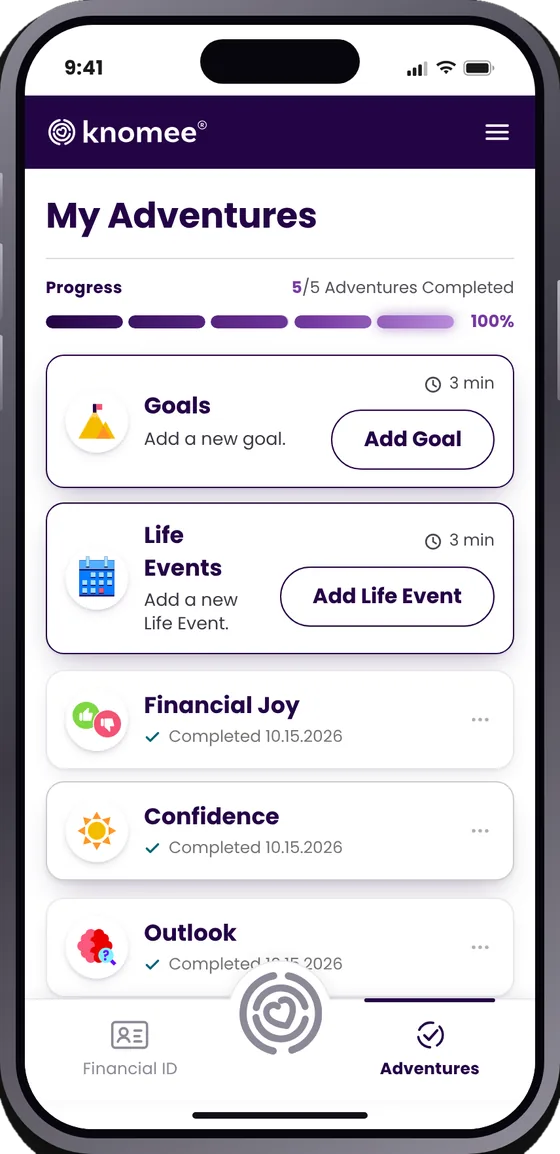
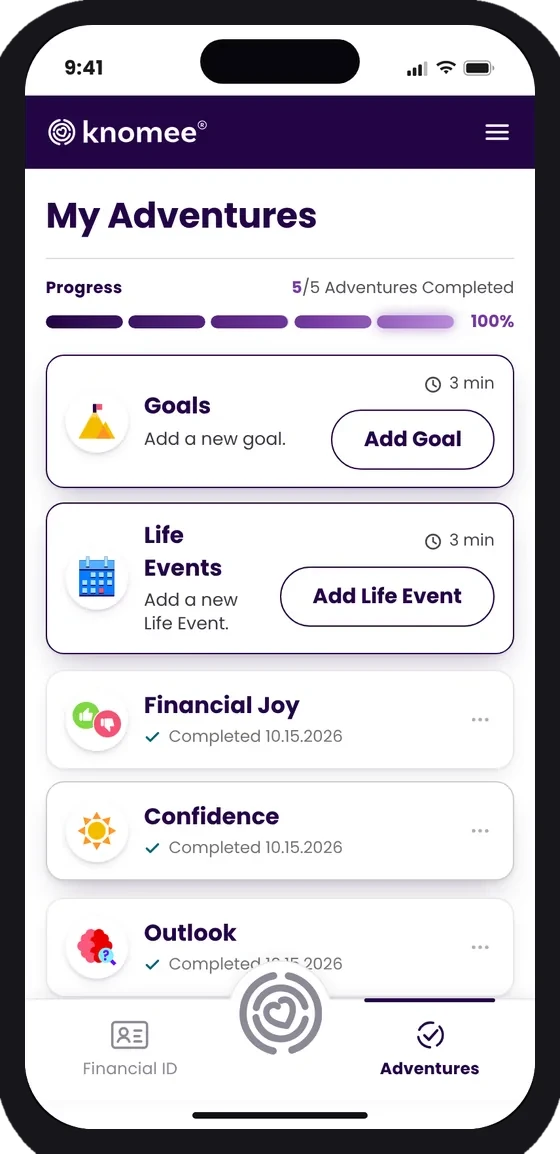
Case media: plain phone frames, desktop screens stacked
The Knomee phone screens get one solid dark bezel instead of the
prototype's metal rim, whose lighter top and bottom edges read as stray
strokes (15 images, screens untouched; scripts/reframe-phone.js does it
for new captures). Desktop pairs in a case now stack one above the other.
Design system case-section note updated in EN and PT.

Changed region(s): [[0.0, 0.0, 1.0, 1.0]]

diff --git a/index.html b/index.html
@@ -24,8 +24,8 @@
 <meta name="theme-color" media="(prefers-color-scheme: dark)" content="#0A1430">
 <link rel="preload" href="assets/fonts/bricolage-grotesque-latin-standard-normal.woff2" as="font" type="font/woff2" crossorigin>
 <link rel="preload" href="assets/fonts/instrument-sans-latin-standard-normal.woff2" as="font" type="font/woff2" crossorigin>
-<link rel="stylesheet" href="assets/css/main.css?v=2026-10-22zl">
-<link rel="stylesheet" href="assets/css/design-system.css?v=2026-10-22zl">
+<link rel="stylesheet" href="assets/css/main.css?v=2026-10-22zm">
+<link rel="stylesheet" href="assets/css/design-system.css?v=2026-10-22zm">
 <script>
   /* Apply saved theme and language before first paint (no flash). */
   (function () {
@@ -393,7 +393,7 @@
             <a class="pc-social" data-social="github" href="https://github.com/victor-mascaro-ux" target="_blank" rel="noopener" aria-label="GitHub" title="GitHub"><svg viewBox="0 0 24 24" aria-hidden="true"><path d="M9 19c-4 1.3-4-2-6-2.5M15 21v-3.4a3 3 0 0 0-.8-2.3c2.8-.3 5.8-1.4 5.8-6.2a4.8 4.8 0 0 0-1.3-3.3 4.5 4.5 0 0 0-.1-3.3s-1-.3-3.4 1.3a11.6 11.6 0 0 0-6.2 0C6.6 2.2 5.6 2.5 5.6 2.5a4.5 4.5 0 0 0-.1 3.3 4.8 4.8 0 0 0-1.3 3.3c0 4.8 3 5.9 5.8 6.2a3 3 0 0 0-.8 2.3V21"></path></svg></a>
           </div>
         </div>
-      </article></div><details class="ds-code"><summary class="btn btn-ghost btn-small"><svg class="ds-chev" viewBox="0 0 24 24" aria-hidden="true"><path d="M9 5l7 7-7 7"/></svg><span data-i18n="ds.showCode">Show code</span><span class="sr-only"> <span data-i18n="ds.for">for</span> Player Card</span></summary><div class="ds-code-body"><pre class="ds-pre" tabindex="0" aria-label="Player Card: HTML"><code></code></pre><button class="btn btn-ghost btn-small" type="button" data-copy-code="Player Card HTML"><svg viewBox="0 0 24 24" aria-hidden="true"><rect x="8" y="8" width="12" height="12" rx="2.5"/><path d="M16 8V6.5A2.5 2.5 0 0 0 13.5 4h-7A2.5 2.5 0 0 0 4 6.5v7A2.5 2.5 0 0 0 6.5 16H8"/></svg><span data-i18n="ds.copyCode">Copy code</span><span class="sr-only"> <span data-i18n="ds.for">for</span> Player Card</span></button></div></details></article><article class="ds-comp" id="ds-c-process-step"><div class="ds-comp-head"><h5 class="ds-h4">Process Step</h5><p data-i18n="ds.sum.process-step">A numbered step in the Process tab, with a screenshot, an explanation and a linked example.</p></div><div class="ds-stage is-wide" style="--ds-h: 560px"><ol class="process-list" data-ds-live="process"></ol></div><details class="ds-code"><summary class="btn btn-ghost btn-small"><svg class="ds-chev" viewBox="0 0 24 24" aria-hidden="true"><path d="M9 5l7 7-7 7"/></svg><span data-i18n="ds.showCode">Show code</span><span class="sr-only"> <span data-i18n="ds.for">for</span> Process Step</span></summary><div class="ds-code-body"><pre class="ds-pre" tabindex="0" aria-label="Process Step: HTML"><code></code></pre><button class="btn btn-ghost btn-small" type="button" data-copy-code="Process Step HTML"><svg viewBox="0 0 24 24" aria-hidden="true"><rect x="8" y="8" width="12" height="12" rx="2.5"/><path d="M16 8V6.5A2.5 2.5 0 0 0 13.5 4h-7A2.5 2.5 0 0 0 4 6.5v7A2.5 2.5 0 0 0 6.5 16H8"/></svg><span data-i18n="ds.copyCode">Copy code</span><span class="sr-only"> <span data-i18n="ds.for">for</span> Process Step</span></button></div></details></article><article class="ds-comp" id="ds-c-side-card"><div class="ds-comp-head"><h5 class="ds-h4">Side Card</h5><p data-i18n="ds.sum.side-card">Small external-link cards for side projects and game jams.</p></div><div class="ds-stage " style="--ds-h: 270px"><ul class="side-list" data-ds-live="side"></ul></div><details class="ds-code"><summary class="btn btn-ghost btn-small"><svg class="ds-chev" viewBox="0 0 24 24" aria-hidden="true"><path d="M9 5l7 7-7 7"/></svg><span data-i18n="ds.showCode">Show code</span><span class="sr-only"> <span data-i18n="ds.for">for</span> Side Card</span></summary><div class="ds-code-body"><pre class="ds-pre" tabindex="0" aria-label="Side Card: HTML"><code></code></pre><button class="btn btn-ghost btn-small" type="button" data-copy-code="Side Card HTML"><svg viewBox="0 0 24 24" aria-hidden="true"><rect x="8" y="8" width="12" height="12" rx="2.5"/><path d="M16 8V6.5A2.5 2.5 0 0 0 13.5 4h-7A2.5 2.5 0 0 0 4 6.5v7A2.5 2.5 0 0 0 6.5 16H8"/></svg><span data-i18n="ds.copyCode">Copy code</span><span class="sr-only"> <span data-i18n="ds.for">for</span> Side Card</span></button></div></details></article></div><div class="ds-group"><h4 class="ds-h3" data-i18n="ds.g.case">Case study</h4><article class="ds-comp" id="ds-c-case-study-head"><div class="ds-comp-head"><h5 class="ds-h4">Case Study Head</h5><p data-i18n="ds.sum.case-study-head">The top of a case study sheet: eyebrow, title, tagline, a four-column meta table and actions.</p></div><div class="ds-stage " style="--ds-h: 440px" data-ds-live="csHead"></div><details class="ds-code"><summary class="btn btn-ghost btn-small"><svg class="ds-chev" viewBox="0 0 24 24" aria-hidden="true"><path d="M9 5l7 7-7 7"/></svg><span data-i18n="ds.showCode">Show code</span><span class="sr-only"> <span data-i18n="ds.for">for</span> Case Study Head</span></summary><div class="ds-code-body"><pre class="ds-pre" tabindex="0" aria-label="Case Study Head: HTML"><code></code></pre><button class="btn btn-ghost btn-small" type="button" data-copy-code="Case Study Head HTML"><svg viewBox="0 0 24 24" aria-hidden="true"><rect x="8" y="8" width="12" height="12" rx="2.5"/><path d="M16 8V6.5A2.5 2.5 0 0 0 13.5 4h-7A2.5 2.5 0 0 0 4 6.5v7A2.5 2.5 0 0 0 6.5 16H8"/></svg><span data-i18n="ds.copyCode">Copy code</span><span class="sr-only"> <span data-i18n="ds.for">for</span> Case Study Head</span></button></div></details></article><article class="ds-comp" id="ds-c-case-section"><div class="ds-comp-head"><h5 class="ds-h4">Case Section</h5><p data-i18n="ds.sum.case-section">A labelled section of a case study, usually a list of design moves with screenshots.</p></div><div class="ds-stage " style="--ds-h: 460px" data-ds-live="csSection"></div><details class="ds-code"><summary class="btn btn-ghost btn-small"><svg class="ds-chev" viewBox="0 0 24 24" aria-hidden="true"><path d="M9 5l7 7-7 7"/></svg><span data-i18n="ds.showCode">Show code</span><span class="sr-only"> <span data-i18n="ds.for">for</span> Case Section</span></summary><div class="ds-code-body"><pre class="ds-pre" tabindex="0" aria-label="Case Section: HTML"><code></code></pre><button class="btn btn-ghost btn-small" type="button" data-copy-code="Case Section HTML"><svg viewBox="0 0 24 24" aria-hidden="true"><rect x="8" y="8" width="12" height="12" rx="2.5"/><path d="M16 8V6.5A2.5 2.5 0 0 0 13.5 4h-7A2.5 2.5 0 0 0 4 6.5v7A2.5 2.5 0 0 0 6.5 16H8"/></svg><span data-i18n="ds.copyCode">Copy code</span><span class="sr-only"> <span data-i18n="ds.for">for</span> Case Section</span></button></div></details></article><article class="ds-comp" id="ds-c-compare"><div class="ds-comp-head"><h5 class="ds-h4">Compare</h5><p data-i18n="ds.sum.compare">A before-and-after slider for case study pictures. Drag the divider, or press Before or After.</p></div><div class="ds-stage " style="--ds-h: 560px" data-ds-live="compare"></div><details class="ds-code"><summary class="btn btn-ghost btn-small"><svg class="ds-chev" viewBox="0 0 24 24" aria-hidden="true"><path d="M9 5l7 7-7 7"/></svg><span data-i18n="ds.showCode">Show code</span><span class="sr-only"> <span data-i18n="ds.for">for</span> Compare</span></summary><div class="ds-code-body"><pre class="ds-pre" tabindex="0" aria-label="Compare: HTML"><code></code></pre><button class="btn btn-ghost btn-small" type="button" data-copy-code="Compare HTML"><svg viewBox="0 0 24 24" aria-hidden="true"><rect x="8" y="8" width="12" height="12" rx="2.5"/><path d="M16 8V6.5A2.5 2.5 0 0 0 13.5 4h-7A2.5 2.5 0 0 0 4 6.5v7A2.5 2.5 0 0 0 6.5 16H8"/></svg><span data-i18n="ds.copyCode">Copy code</span><span class="sr-only"> <span data-i18n="ds.for">for</span> Compare</span></button></div></details></article><article class="ds-comp" id="ds-c-film"><div class="ds-comp-head"><h5 class="ds-h4">Film</h5><p data-i18n="ds.sum.film">A storyboard of a video: pick a frame, or press play to load the video from YouTube’s privacy-enhanced domain.</p></div><div class="ds-stage " style="--ds-h: 600px" data-ds-live="film"></div><details class="ds-code"><summary class="btn btn-ghost btn-small"><svg class="ds-chev" viewBox="0 0 24 24" aria-hidden="true"><path d="M9 5l7 7-7 7"/></svg><span data-i18n="ds.showCode">Show code</span><span class="sr-only"> <span data-i18n="ds.for">for</span> Film</span></summary><div class="ds-code-body"><pre class="ds-pre" tabindex="0" aria-label="Film: HTML"><code></code></pre><button class="btn btn-ghost btn-small" type="button" data-copy-code="Film HTML"><svg viewBox="0 0 24 24" aria-hidden="true"><rect x="8" y="8" width="12" height="12" rx="2.5"/><path d="M16 8V6.5A2.5 2.5 0 0 0 13.5 4h-7A2.5 2.5 0 0 0 4 6.5v7A2.5 2.5 0 0 0 6.5 16H8"/></svg><span data-i18n="ds.copyCode">Copy code</span><span class="sr-only"> <span data-i18n="ds.for">for</span> Film</span></button></div></details></article></div><div class="ds-group"><h4 class="ds-h3" data-i18n="ds.g.feedback">Feedback</h4><article class="ds-comp" id="ds-c-quest-log"><div class="ds-comp-head"><h5 class="ds-h4">Quest Log</h5><p data-i18n="ds.sum.quest-log">The XP game panel: level, progress bar and the list of quests a visitor can complete.</p></div><div class="ds-stage " style="--ds-h: 560px" data-ds-live="questlog"></div><details class="ds-code"><summary class="btn btn-ghost btn-small"><svg class="ds-chev" viewBox="0 0 24 24" aria-hidden="true"><path d="M9 5l7 7-7 7"/></svg><span data-i18n="ds.showCode">Show code</span><span class="sr-only"> <span data-i18n="ds.for">for</span> Quest Log</span></summary><div class="ds-code-body"><pre class="ds-pre" tabindex="0" aria-label="Quest Log: HTML"><code></code></pre><button class="btn btn-ghost btn-small" type="button" data-copy-code="Quest Log HTML"><svg viewBox="0 0 24 24" aria-hidden="true"><rect x="8" y="8" width="12" height="12" rx="2.5"/><path d="M16 8V6.5A2.5 2.5 0 0 0 13.5 4h-7A2.5 2.5 0 0 0 4 6.5v7A2.5 2.5 0 0 0 6.5 16H8"/></svg><span data-i18n="ds.copyCode">Copy code</span><span class="sr-only"> <span data-i18n="ds.for">for</span> Quest Log</span></button></div></details></article><article class="ds-comp" id="ds-c-sheet-bar"><div class="ds-comp-head"><h5 class="ds-h4">Sheet Bar</h5><p data-i18n="ds.sum.sheet-bar">The sticky bar on top of a case study sheet, with breadcrumb, previous and next, close and reading progress.</p></div><div class="ds-stage " style="--ds-h: 140px"><div class="sheet-bar">
+      </article></div><details class="ds-code"><summary class="btn btn-ghost btn-small"><svg class="ds-chev" viewBox="0 0 24 24" aria-hidden="true"><path d="M9 5l7 7-7 7"/></svg><span data-i18n="ds.showCode">Show code</span><span class="sr-only"> <span data-i18n="ds.for">for</span> Player Card</span></summary><div class="ds-code-body"><pre class="ds-pre" tabindex="0" aria-label="Player Card: HTML"><code></code></pre><button class="btn btn-ghost btn-small" type="button" data-copy-code="Player Card HTML"><svg viewBox="0 0 24 24" aria-hidden="true"><rect x="8" y="8" width="12" height="12" rx="2.5"/><path d="M16 8V6.5A2.5 2.5 0 0 0 13.5 4h-7A2.5 2.5 0 0 0 4 6.5v7A2.5 2.5 0 0 0 6.5 16H8"/></svg><span data-i18n="ds.copyCode">Copy code</span><span class="sr-only"> <span data-i18n="ds.for">for</span> Player Card</span></button></div></details></article><article class="ds-comp" id="ds-c-process-step"><div class="ds-comp-head"><h5 class="ds-h4">Process Step</h5><p data-i18n="ds.sum.process-step">A numbered step in the Process tab, with a screenshot, an explanation and a linked example.</p></div><div class="ds-stage is-wide" style="--ds-h: 560px"><ol class="process-list" data-ds-live="process"></ol></div><details class="ds-code"><summary class="btn btn-ghost btn-small"><svg class="ds-chev" viewBox="0 0 24 24" aria-hidden="true"><path d="M9 5l7 7-7 7"/></svg><span data-i18n="ds.showCode">Show code</span><span class="sr-only"> <span data-i18n="ds.for">for</span> Process Step</span></summary><div class="ds-code-body"><pre class="ds-pre" tabindex="0" aria-label="Process Step: HTML"><code></code></pre><button class="btn btn-ghost btn-small" type="button" data-copy-code="Process Step HTML"><svg viewBox="0 0 24 24" aria-hidden="true"><rect x="8" y="8" width="12" height="12" rx="2.5"/><path d="M16 8V6.5A2.5 2.5 0 0 0 13.5 4h-7A2.5 2.5 0 0 0 4 6.5v7A2.5 2.5 0 0 0 6.5 16H8"/></svg><span data-i18n="ds.copyCode">Copy code</span><span class="sr-only"> <span data-i18n="ds.for">for</span> Process Step</span></button></div></details></article><article class="ds-comp" id="ds-c-side-card"><div class="ds-comp-head"><h5 class="ds-h4">Side Card</h5><p data-i18n="ds.sum.side-card">Small external-link cards for side projects and game jams.</p></div><div class="ds-stage " style="--ds-h: 270px"><ul class="side-list" data-ds-live="side"></ul></div><details class="ds-code"><summary class="btn btn-ghost btn-small"><svg class="ds-chev" viewBox="0 0 24 24" aria-hidden="true"><path d="M9 5l7 7-7 7"/></svg><span data-i18n="ds.showCode">Show code</span><span class="sr-only"> <span data-i18n="ds.for">for</span> Side Card</span></summary><div class="ds-code-body"><pre class="ds-pre" tabindex="0" aria-label="Side Card: HTML"><code></code></pre><button class="btn btn-ghost btn-small" type="button" data-copy-code="Side Card HTML"><svg viewBox="0 0 24 24" aria-hidden="true"><rect x="8" y="8" width="12" height="12" rx="2.5"/><path d="M16 8V6.5A2.5 2.5 0 0 0 13.5 4h-7A2.5 2.5 0 0 0 4 6.5v7A2.5 2.5 0 0 0 6.5 16H8"/></svg><span data-i18n="ds.copyCode">Copy code</span><span class="sr-only"> <span data-i18n="ds.for">for</span> Side Card</span></button></div></details></article></div><div class="ds-group"><h4 class="ds-h3" data-i18n="ds.g.case">Case study</h4><article class="ds-comp" id="ds-c-case-study-head"><div class="ds-comp-head"><h5 class="ds-h4">Case Study Head</h5><p data-i18n="ds.sum.case-study-head">The top of a case study sheet: eyebrow, title, tagline, a four-column meta table and actions.</p></div><div class="ds-stage " style="--ds-h: 440px" data-ds-live="csHead"></div><details class="ds-code"><summary class="btn btn-ghost btn-small"><svg class="ds-chev" viewBox="0 0 24 24" aria-hidden="true"><path d="M9 5l7 7-7 7"/></svg><span data-i18n="ds.showCode">Show code</span><span class="sr-only"> <span data-i18n="ds.for">for</span> Case Study Head</span></summary><div class="ds-code-body"><pre class="ds-pre" tabindex="0" aria-label="Case Study Head: HTML"><code></code></pre><button class="btn btn-ghost btn-small" type="button" data-copy-code="Case Study Head HTML"><svg viewBox="0 0 24 24" aria-hidden="true"><rect x="8" y="8" width="12" height="12" rx="2.5"/><path d="M16 8V6.5A2.5 2.5 0 0 0 13.5 4h-7A2.5 2.5 0 0 0 4 6.5v7A2.5 2.5 0 0 0 6.5 16H8"/></svg><span data-i18n="ds.copyCode">Copy code</span><span class="sr-only"> <span data-i18n="ds.for">for</span> Case Study Head</span></button></div></details></article><article class="ds-comp" id="ds-c-case-section"><div class="ds-comp-head"><h5 class="ds-h4">Case Section</h5><p data-i18n="ds.sum.case-section">A labelled section of a case study, usually a list of design moves with screenshots: phone screens side by side in a plain dark frame, desktop screens one above the other.</p></div><div class="ds-stage " style="--ds-h: 460px" data-ds-live="csSection"></div><details class="ds-code"><summary class="btn btn-ghost btn-small"><svg class="ds-chev" viewBox="0 0 24 24" aria-hidden="true"><path d="M9 5l7 7-7 7"/></svg><span data-i18n="ds.showCode">Show code</span><span class="sr-only"> <span data-i18n="ds.for">for</span> Case Section</span></summary><div class="ds-code-body"><pre class="ds-pre" tabindex="0" aria-label="Case Section: HTML"><code></code></pre><button class="btn btn-ghost btn-small" type="button" data-copy-code="Case Section HTML"><svg viewBox="0 0 24 24" aria-hidden="true"><rect x="8" y="8" width="12" height="12" rx="2.5"/><path d="M16 8V6.5A2.5 2.5 0 0 0 13.5 4h-7A2.5 2.5 0 0 0 4 6.5v7A2.5 2.5 0 0 0 6.5 16H8"/></svg><span data-i18n="ds.copyCode">Copy code</span><span class="sr-only"> <span data-i18n="ds.for">for</span> Case Section</span></button></div></details></article><article class="ds-comp" id="ds-c-compare"><div class="ds-comp-head"><h5 class="ds-h4">Compare</h5><p data-i18n="ds.sum.compare">A before-and-after slider for case study pictures. Drag the divider, or press Before or After.</p></div><div class="ds-stage " style="--ds-h: 560px" data-ds-live="compare"></div><details class="ds-code"><summary class="btn btn-ghost btn-small"><svg class="ds-chev" viewBox="0 0 24 24" aria-hidden="true"><path d="M9 5l7 7-7 7"/></svg><span data-i18n="ds.showCode">Show code</span><span class="sr-only"> <span data-i18n="ds.for">for</span> Compare</span></summary><div class="ds-code-body"><pre class="ds-pre" tabindex="0" aria-label="Compare: HTML"><code></code></pre><button class="btn btn-ghost btn-small" type="button" data-copy-code="Compare HTML"><svg viewBox="0 0 24 24" aria-hidden="true"><rect x="8" y="8" width="12" height="12" rx="2.5"/><path d="M16 8V6.5A2.5 2.5 0 0 0 13.5 4h-7A2.5 2.5 0 0 0 4 6.5v7A2.5 2.5 0 0 0 6.5 16H8"/></svg><span data-i18n="ds.copyCode">Copy code</span><span class="sr-only"> <span data-i18n="ds.for">for</span> Compare</span></button></div></details></article><article class="ds-comp" id="ds-c-film"><div class="ds-comp-head"><h5 class="ds-h4">Film</h5><p data-i18n="ds.sum.film">A storyboard of a video: pick a frame, or press play to load the video from YouTube’s privacy-enhanced domain.</p></div><div class="ds-stage " style="--ds-h: 600px" data-ds-live="film"></div><details class="ds-code"><summary class="btn btn-ghost btn-small"><svg class="ds-chev" viewBox="0 0 24 24" aria-hidden="true"><path d="M9 5l7 7-7 7"/></svg><span data-i18n="ds.showCode">Show code</span><span class="sr-only"> <span data-i18n="ds.for">for</span> Film</span></summary><div class="ds-code-body"><pre class="ds-pre" tabindex="0" aria-label="Film: HTML"><code></code></pre><button class="btn btn-ghost btn-small" type="button" data-copy-code="Film HTML"><svg viewBox="0 0 24 24" aria-hidden="true"><rect x="8" y="8" width="12" height="12" rx="2.5"/><path d="M16 8V6.5A2.5 2.5 0 0 0 13.5 4h-7A2.5 2.5 0 0 0 4 6.5v7A2.5 2.5 0 0 0 6.5 16H8"/></svg><span data-i18n="ds.copyCode">Copy code</span><span class="sr-only"> <span data-i18n="ds.for">for</span> Film</span></button></div></details></article></div><div class="ds-group"><h4 class="ds-h3" data-i18n="ds.g.feedback">Feedback</h4><article class="ds-comp" id="ds-c-quest-log"><div class="ds-comp-head"><h5 class="ds-h4">Quest Log</h5><p data-i18n="ds.sum.quest-log">The XP game panel: level, progress bar and the list of quests a visitor can complete.</p></div><div class="ds-stage " style="--ds-h: 560px" data-ds-live="questlog"></div><details class="ds-code"><summary class="btn btn-ghost btn-small"><svg class="ds-chev" viewBox="0 0 24 24" aria-hidden="true"><path d="M9 5l7 7-7 7"/></svg><span data-i18n="ds.showCode">Show code</span><span class="sr-only"> <span data-i18n="ds.for">for</span> Quest Log</span></summary><div class="ds-code-body"><pre class="ds-pre" tabindex="0" aria-label="Quest Log: HTML"><code></code></pre><button class="btn btn-ghost btn-small" type="button" data-copy-code="Quest Log HTML"><svg viewBox="0 0 24 24" aria-hidden="true"><rect x="8" y="8" width="12" height="12" rx="2.5"/><path d="M16 8V6.5A2.5 2.5 0 0 0 13.5 4h-7A2.5 2.5 0 0 0 4 6.5v7A2.5 2.5 0 0 0 6.5 16H8"/></svg><span data-i18n="ds.copyCode">Copy code</span><span class="sr-only"> <span data-i18n="ds.for">for</span> Quest Log</span></button></div></details></article><article class="ds-comp" id="ds-c-sheet-bar"><div class="ds-comp-head"><h5 class="ds-h4">Sheet Bar</h5><p data-i18n="ds.sum.sheet-bar">The sticky bar on top of a case study sheet, with breadcrumb, previous and next, close and reading progress.</p></div><div class="ds-stage " style="--ds-h: 140px"><div class="sheet-bar">
       <span class="sheet-crumb label">UX/AI<span class="sep"> · </span>2/4</span>
       <div class="sheet-bar-tools">
         <button class="tool icon" type="button" aria-label="Previous"><svg viewBox="0 0 24 24" aria-hidden="true"><path d="M15 5l-7 7 7 7"></path></svg></button>
@@ -512,8 +512,8 @@
   <img id="lbImg" alt="">
 </div>
 
-<script src="assets/js/content.js?v=2026-10-22zl"></script>
-<script src="assets/js/app.js?v=2026-10-22zl"></script>
-<script src="assets/js/design-system.js?v=2026-10-22zl"></script>
+<script src="assets/js/content.js?v=2026-10-22zm"></script>
+<script src="assets/js/app.js?v=2026-10-22zm"></script>
+<script src="assets/js/design-system.js?v=2026-10-22zm"></script>
 </body>
 </html>

diff --git a/assets/js/content.js b/assets/js/content.js
@@ -281,7 +281,7 @@ window.CONTENT = {
       'ds.sum.process-step': 'A numbered step in the Process tab, with a screenshot, an explanation and a linked example. The screenshot is the linked project’s cover unless the step sets its own, so neighbouring steps don’t repeat a look.',
       'ds.sum.side-card': 'Small external-link cards for side projects and game jams.',
       'ds.sum.case-study-head': 'The top of a case study sheet: eyebrow, title, tagline, a four-column meta table and actions.',
-      'ds.sum.case-section': 'A labelled section of a case study, usually a list of design moves with screenshots.',
+      'ds.sum.case-section': 'A labelled section of a case study, usually a list of design moves with screenshots: phone screens side by side in a plain dark frame, desktop screens one above the other.',
       'ds.sum.compare': 'A before-and-after slider for case study pictures. Drag the divider, or press Before or After.',
       'ds.sum.film': 'A storyboard of a video: pick a frame, or press play to load the video from YouTube’s privacy-enhanced domain.',
       'ds.sum.quest-log': 'The XP game panel: level, progress bar and the list of quests a visitor can complete.',
@@ -711,7 +711,7 @@ window.CONTENT = {
       'ds.sum.process-step': 'Uma etapa numerada da aba Processo, com uma tela, a explicação e um exemplo com link. A tela é a capa do projeto do link, a menos que a etapa defina a sua, para etapas vizinhas não repetirem o mesmo visual.',
       'ds.sum.side-card': 'Cards pequenos com link externo, para projetos paralelos e game jams.',
       'ds.sum.case-study-head': 'O topo do painel de um estudo de caso: eyebrow, título, tagline, uma tabela de quatro colunas e ações.',
-      'ds.sum.case-section': 'Uma seção com rótulo de um estudo de caso, em geral uma lista de decisões de design com telas.',
+      'ds.sum.case-section': 'Uma seção com rótulo de um estudo de caso, em geral uma lista de decisões de design com telas: telas de celular lado a lado numa moldura escura simples, telas de desktop uma embaixo da outra.',
       'ds.sum.compare': 'Um comparador de antes e depois para as imagens dos estudos de caso. Arraste o divisor ou aperte Antes ou Depois.',
       'ds.sum.film': 'O storyboard de um vídeo: escolha um quadro ou aperte play para carregar o vídeo pelo domínio com privacidade reforçada do YouTube.',
       'ds.sum.quest-log': 'O painel do jogo de XP: nível, barra de progresso e a lista de missões que o visitante pode completar.',

diff --git a/scripts/reframe-phone.js b/scripts/reframe-phone.js
@@ -1,0 +1,39 @@
+// Gives a phone screenshot from the Knomee prototype the portfolio's plain frame: one solid dark bezel
+// instead of the prototype's metal rim, with the screen left as it is.
+// Input: the prototype's framed phone, 560×1154 (its iPhone element at deviceScaleFactor 2), transparent outside the body.
+// Usage (from the repo root):
+//   npx playwright@1.56.0 install chromium   # first time only
+//   node scripts/reframe-phone.js shot.png [more.png …]   # writes assets/img/<name>.webp
+const { chromium } = require('playwright');
+const fs = require('fs'), path = require('path');
+const FRAME = '#17161c', INSET = 25, R = 62;   // the screen sits 25px in on every side, its corners about 62px round
+(async () => {
+  const browser = await chromium.launch();
+  const page = await browser.newPage();
+  for (const f of process.argv.slice(2)) {
+    const mime = f.endsWith('.png') ? 'image/png' : 'image/webp';
+    const src = 'data:' + mime + ';base64,' + fs.readFileSync(f).toString('base64');
+    const r = await page.evaluate(async ({ src, FRAME, INSET, R }) => {
+      const img = new Image(); img.src = src; await img.decode();
+      const W = img.naturalWidth, H = img.naturalHeight;
+      const probe = document.createElement('canvas'); probe.width = W; probe.height = H;
+      const p = probe.getContext('2d'); p.drawImage(img, 0, 0);
+      const a = (x, y) => p.getImageData(x, y, 1, 1).data[3];
+      if (W !== 560 || H !== 1154 || a(0, 0) !== 0 || a(8, H / 2) !== 255) return { skip: W + 'x' + H + ', not a framed phone' };
+      const c = document.createElement('canvas'); c.width = W; c.height = H;
+      const x = c.getContext('2d');
+      // the body: the original silhouette (keeps its smooth edge), in one colour
+      x.drawImage(img, 0, 0); x.globalCompositeOperation = 'source-in'; x.fillStyle = FRAME; x.fillRect(0, 0, W, H);
+      // the screen, untouched
+      x.globalCompositeOperation = 'source-over'; x.save();
+      x.beginPath(); x.roundRect(INSET, INSET, W - INSET * 2, H - INSET * 2, R); x.clip();
+      x.drawImage(img, 0, 0); x.restore();
+      return { url: c.toDataURL('image/webp', 0.9) };
+    }, { src, FRAME, INSET, R });
+    if (r.skip) { console.log('skipped', f + ':', r.skip); continue; }
+    const dest = path.join('assets/img', path.basename(f).replace(/\.(png|webp)$/, '') + '.webp');
+    fs.writeFileSync(dest, Buffer.from(r.url.split(',')[1], 'base64'));
+    console.log('wrote', dest);
+  }
+  await browser.close();
+})();

diff --git a/assets/css/main.css b/assets/css/main.css
@@ -1037,7 +1037,7 @@ img.brand-mark { display: block; background: none; box-shadow: none; }
 .move-media.phones img { width: clamp(150px, 26vw, 250px); border-radius: var(--r); filter: var(--pic-drop); }
 .frame { border-radius: var(--r); overflow: hidden; border: 1px solid var(--line); box-shadow: var(--pic-shadow); background: var(--surface); }
 .move-media.wide .frame { width: 100%; }
-.move-media.pair .frame { flex: 1 1 300px; min-width: 0; }
+.move-media.pair .frame { width: 100%; }   /* desktop screens stack, one above the other */
 .move-media.game .frame { flex: 1 1 280px; min-width: 0; max-width: 520px; }
 .move-media.square .frame { width: min(360px, 100%); }
 .evolution { display: flex; flex-wrap: wrap; gap: 24px; align-items: flex-start; }

diff --git a/CLAUDE.md b/CLAUDE.md
@@ -51,5 +51,5 @@ Craft details matter as much as content.
 2. Desktop 1440px and phone 390px, light and dark, EN and PT.
 3. Open each case study; Esc and the browser Back button both close it.
 4. No horizontal scroll at 390px; no console errors.
-5. Images: WebP, ≤1600px wide, `alt` text in both languages where possible.
+5. Images: WebP, ≤1600px wide, `alt` text in both languages where possible. Phone screens from the Knomee prototype get the plain dark frame: run `scripts/reframe-phone.js` on the 560×1154 capture. Desktop screens in a case stack one above the other (`kind: 'pair'` or `'wide'`).
 6. If CV content changed, rebuild the PDFs (`scripts/build-cv.js`) and bump `cvVersion` in content.js (and the `?v=` on the CV links in index.html), so browsers fetch the new file instead of a saved copy.
